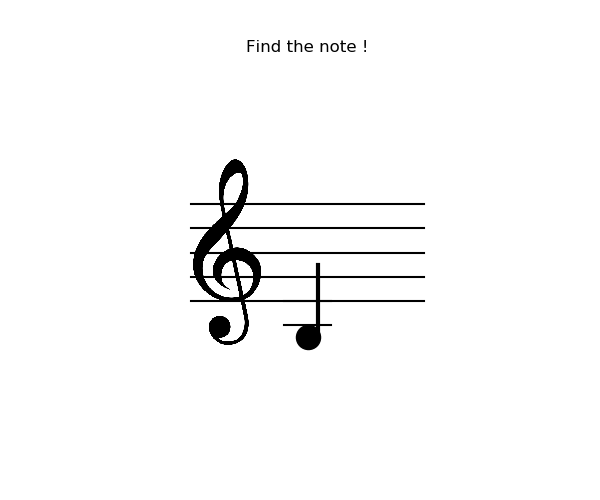
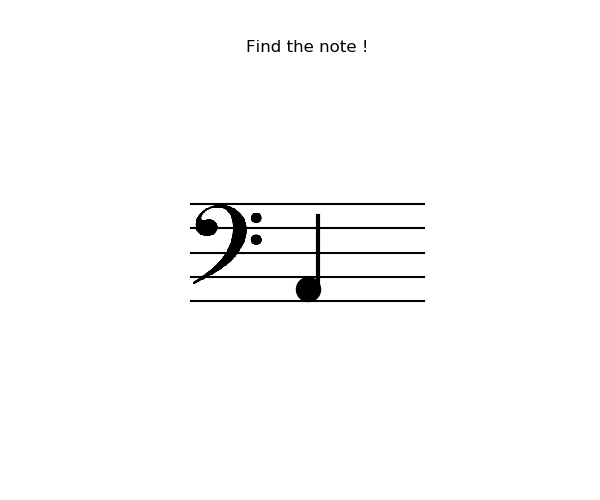
Add preview

Changed region(s): [[0.3, 0.3, 0.45, 0.69], [0.48, 0.42, 0.54, 0.72]]

diff --git a/JAC.py b/JAC.py
@@ -380,7 +380,11 @@ class Bot(discord.Client):
                             self.listen_for_answer = False
                             await self.displayResult(message)
                     else:
-                        await self.channel.send(file=discord.File("./images/help.jpg"))
+                        # en cas de réactions, envoi de l'image d'aide
+                        if not self.switch:
+                            await self.channel.send(file=discord.File("./images/ghelp.png")) #sol
+                        else:
+                            await self.channel.send(file=discord.File("./images/fhelp.png")) #fa
 
 
             if(self.listen_for_level): # attend le choix du niveau
